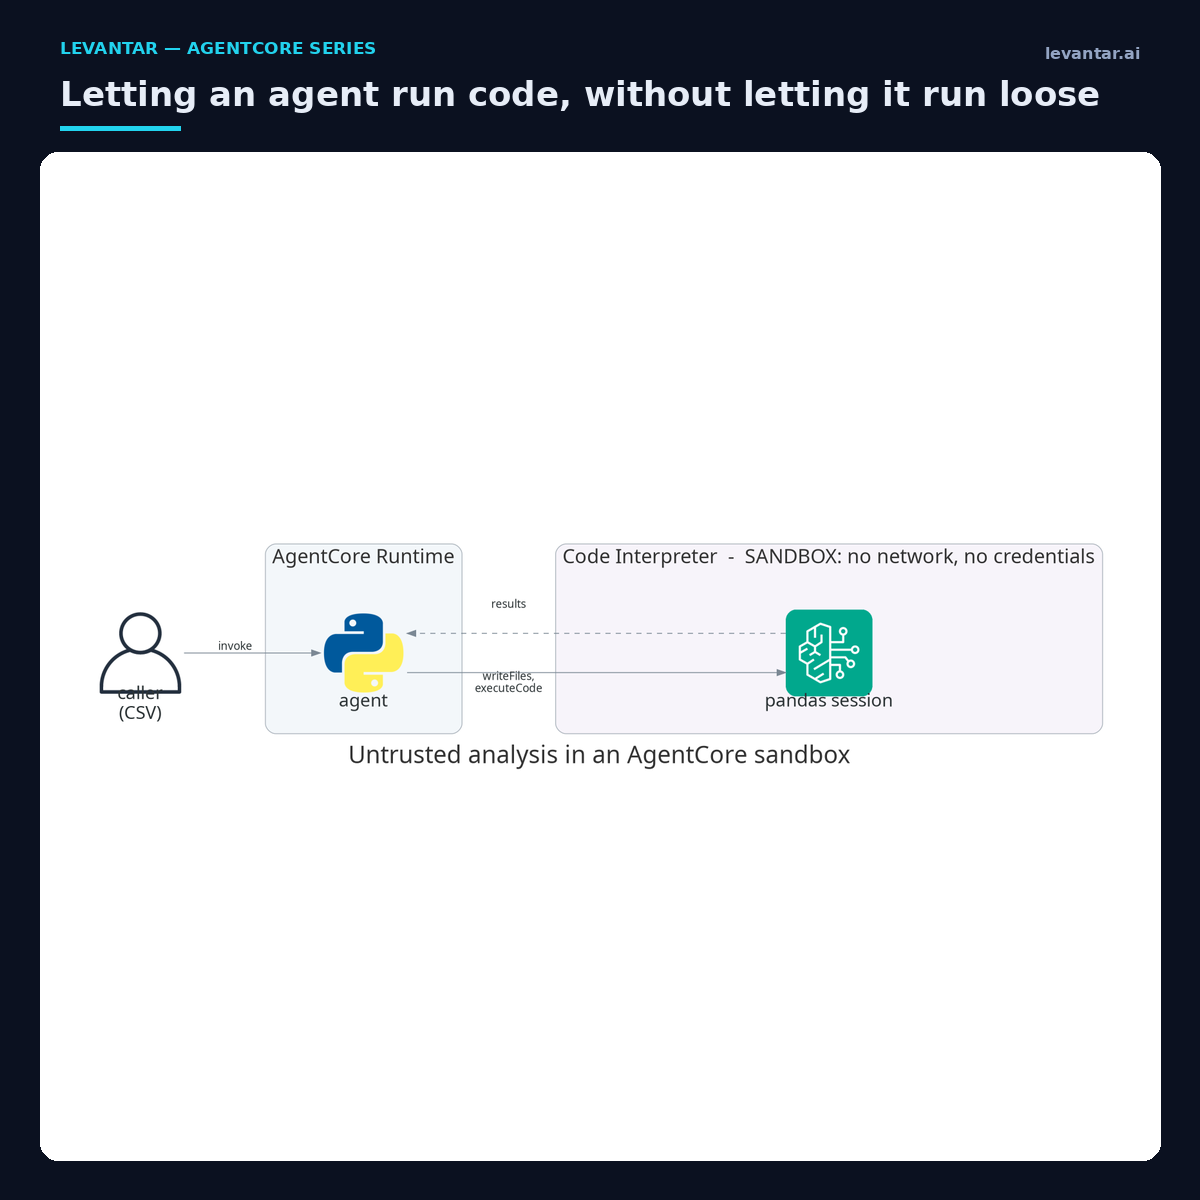
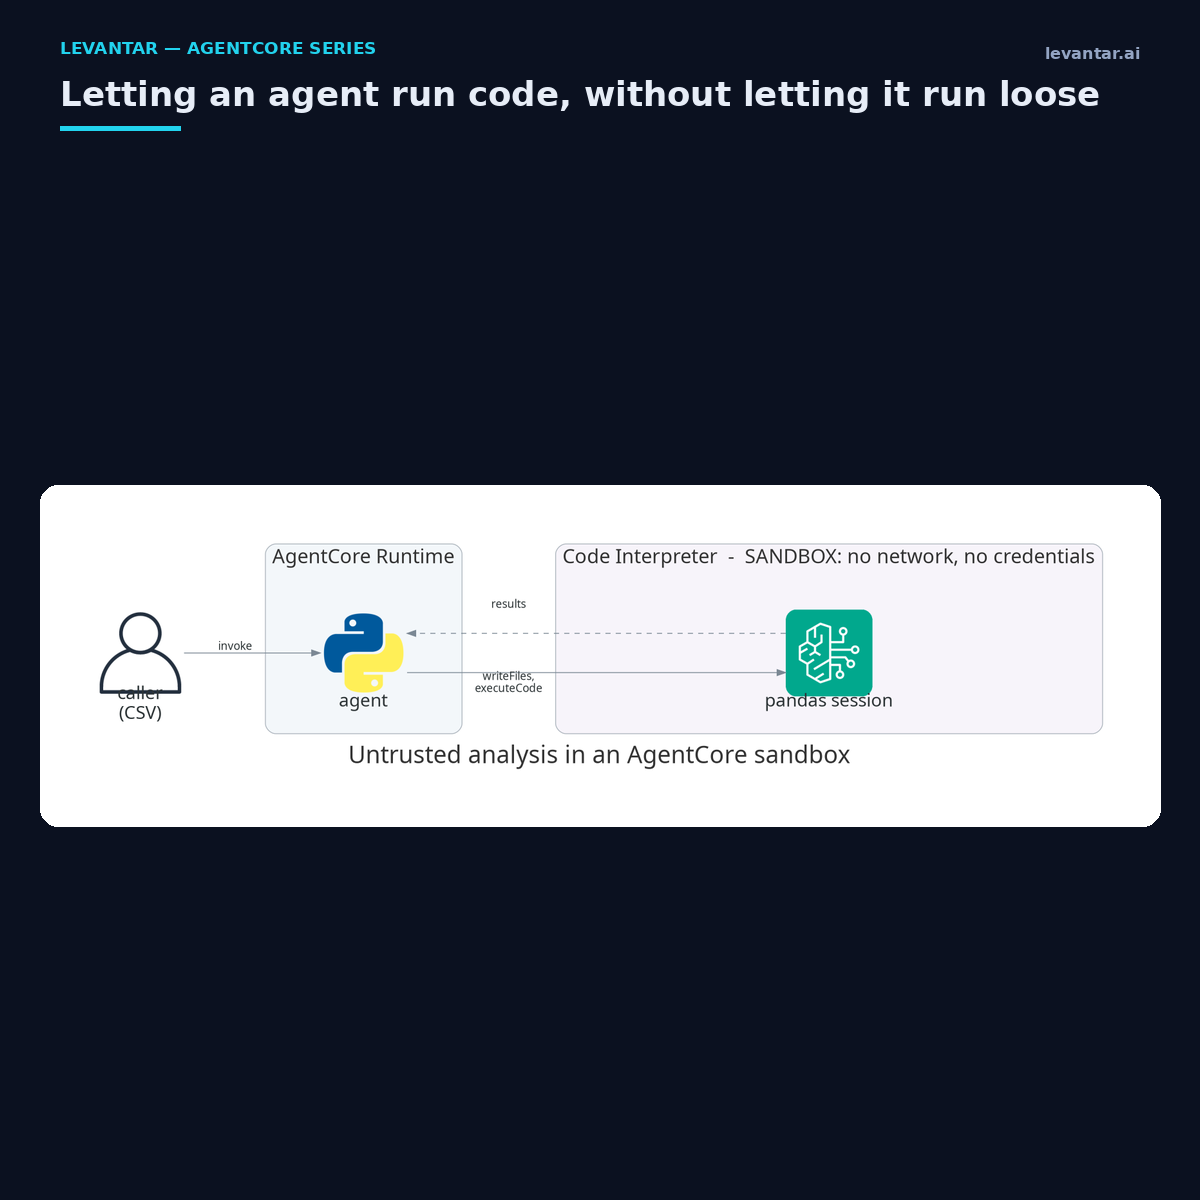
fix: size social card panel to the diagram
The white panel filled the canvas' lower area regardless of the artwork,
so the square card left roughly the top and bottom thirds empty. The
diagrams are far wider than they are high, and it got worse as they grew.

Panel is now sized to the scaled artwork and centred, so the space around
it is brand background rather than blank white. All eight cards
regenerated.

diff --git a/scripts/render-social.py b/scripts/render-social.py
@@ -67,17 +67,24 @@ def main():
         y += 44
     draw.rectangle([60, y + 8, 180, y + 12], fill=ACCENT)
 
-    # diagram on a white rounded card filling the lower area
+    # Diagram on a white rounded card sized to the artwork, not to the canvas.
+    # Filling the lower area leaves a tall empty panel on the square card,
+    # because the diagrams are much wider than they are high.
     top = y + 34
-    card = [40, top, W - 40, H - 40]
-    draw.rounded_rectangle(card, radius=18, fill=(255, 255, 255))
+    pad_x, pad_y = 20, 15
+    area_w, area_h = W - 80, H - 40 - top
+
     art = Image.open(demo / "architecture-social.png").convert("RGB")
     (demo / "architecture-social.png").unlink()
-    max_w, max_h = card[2] - card[0] - 40, card[3] - card[1] - 30
-    scale = min(max_w / art.width, max_h / art.height)
+    scale = min((area_w - 2 * pad_x) / art.width, (area_h - 2 * pad_y) / art.height)
     art = art.resize((int(art.width * scale), int(art.height * scale)), Image.LANCZOS)
-    canvas.paste(art, (card[0] + (card[2] - card[0] - art.width) // 2,
-                       card[1] + (card[3] - card[1] - art.height) // 2))
+
+    card_w, card_h = art.width + 2 * pad_x, art.height + 2 * pad_y
+    card_x, card_y = (W - card_w) // 2, top + (area_h - card_h) // 2
+    draw.rounded_rectangle(
+        [card_x, card_y, card_x + card_w, card_y + card_h], radius=18, fill=(255, 255, 255)
+    )
+    canvas.paste(art, (card_x + pad_x, card_y + pad_y))
 
     draw.text((W - 60 - draw.textlength("levantar.ai", font=font("DejaVuSans-Bold", 16)), 44),
               "levantar.ai", font=font("DejaVuSans-Bold", 16), fill=MUTED)
